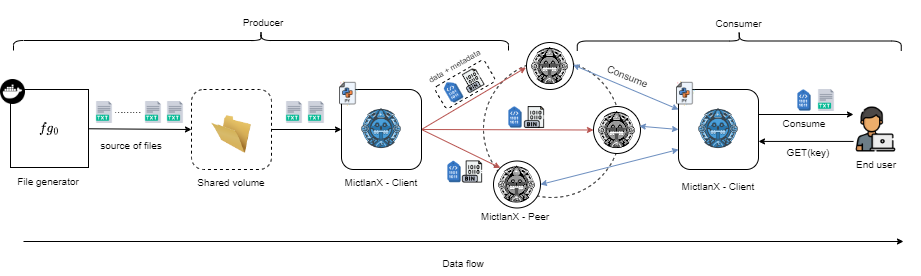
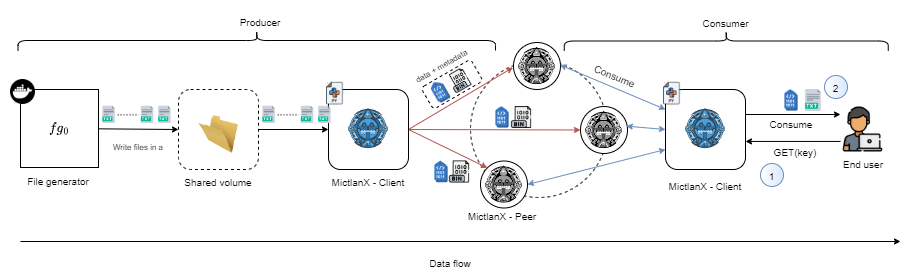
use case / conceptual representation [updated]

diff --git a/examples/v4/use-cases/01_upload_in_bulk/README.md b/examples/v4/use-cases/01_upload_in_bulk/README.md
@@ -1,5 +1,5 @@
 # Upload files in bulk
-In this use case we use a $n$ random generate file batch of 10MB avg file size with stdev of 2MB that we need to upload to MictlanX at ```$\lambda$``` mean arrival rate. So we generate a exponentially distributed interarrival rates using ```$\frac{1}{\lambda}$``` mean interarrival time and stdev of 1.  
+In this use case we use a $n$ random generate file batch of 10MB avg file size with stdev of 2MB that we need to upload to MictlanX at $\lambda$ mean arrival rate. So we generate a exponentially distributed interarrival rates using $\frac{1}{\lambda}$ mean interarrival time. The next diagram shows a conceptual representation of the use-case:  
 
 <div align=center>
 <a href="https://test.pypi.org/project/mictlanx/"><img src="./assets/example.png" alt="build - 0.0.33"></a>
